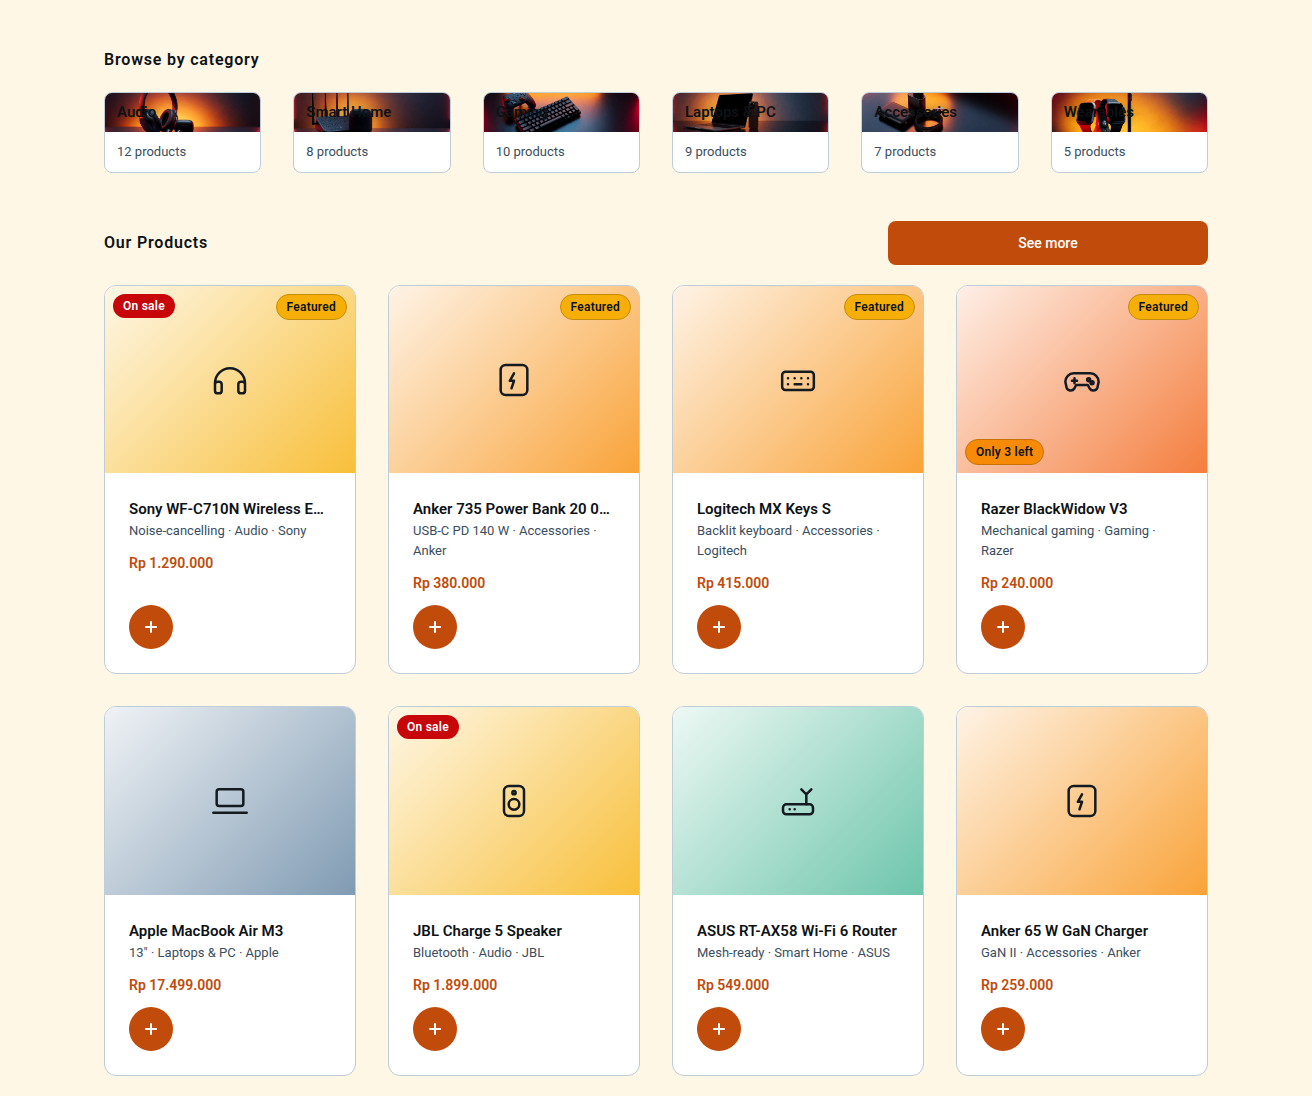
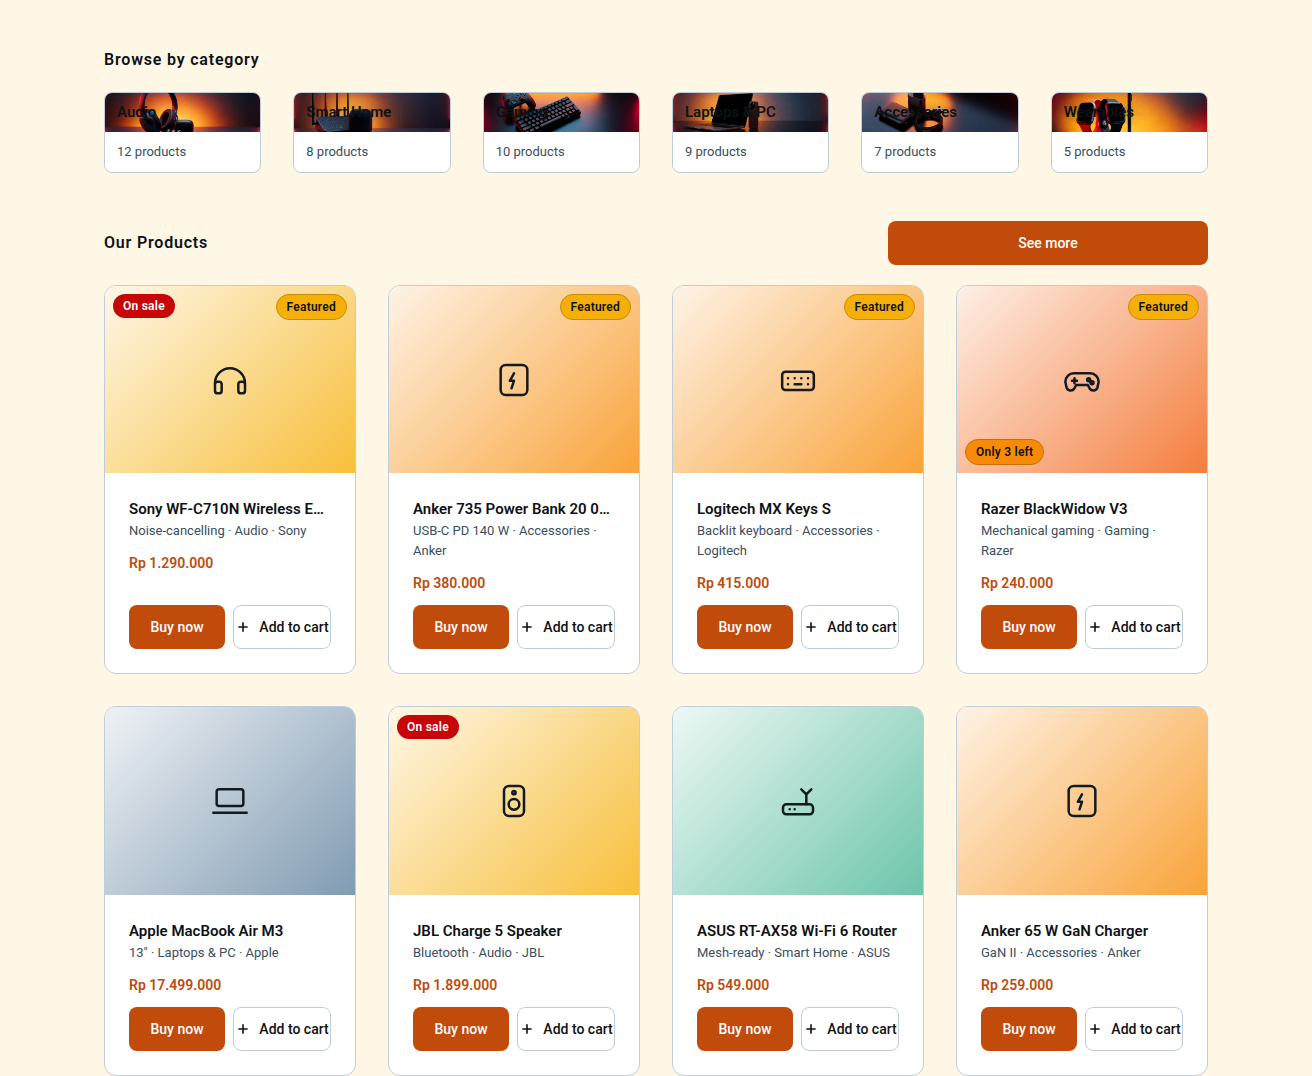
feat(storefront): round-11 — product card CTA row: 'Buy now' + 'Add to cart' side by side
Replace the pinned 44px circular plus-icon add-to-cart (.cadd) with two
44px buttons in .crow (main-store grid4 + search-browse grid-search, one
shared card() helper):
- Buy now: primary filled (at-600, white 14/500, 8px radius)
- Add to cart: secondary outline (white, 1px bs-200 border, bs-950 label,
  plus glyph kept before the label)
- .crow = flex, 8px gap, equal flex split; both fit one line at 1312px
  and at mobile 2-col (no clipping, no label shrink needed at 14px)
- out-of-stock: BOTH aria-disabled (bs-100 fill + bs-400 text),
  'Add to cart (out of stock)' aria-label preserved
- removed dead .cadd styles

Docs: docs/main-store/design.md + docs/search-browse/design.md card CTA
row re-described; intended-redesign (round 11) markers added.
Re-render: docs/main-store/mockup-bottom.png + docs/search-browse/mockup.png
(refreshed by capture_bottom + rebuild_docs_png). Gate CLEAN at 49b7610.

diff --git a/_mockup-build/pages_storefront.py b/_mockup-build/pages_storefront.py
@@ -23,12 +23,21 @@ display:flex;flex-direction:column;min-width:0;min-height:300px}
 white-space:nowrap;overflow:hidden;text-overflow:ellipsis}
 .csub{font-size:13px;line-height:20px;font-weight:400;color:var(--bs-700)}
 .cprice{height:20px}
-.crow{display:flex;align-items:center;justify-content:space-between;margin-top:auto}
-.cadd{width:44px;height:44px;border-radius:999px;border:none;background:var(--at-600);color:#fff;
-display:flex;align-items:center;justify-content:center;cursor:pointer;transition:background-color 150ms ease}
-.cadd:hover{background:var(--at-700)} .cadd:active{background:var(--at-800)}
-.cadd svg{width:20px;height:20px}
-.cadd[aria-disabled=true]{background:var(--bs-100);color:var(--bs-400);cursor:not-allowed}
+/* round-11: .crow = two 44px buttons side by side (equal flex split, 8px gap) —
+   "Buy now" primary filled (btn-p style) + "Add to cart" outline (btn-sec style,
+   plus glyph kept before the label so it stays recognizable). Mobile (<768px):
+   labels shrink to 13px and "Add to cart" folds to a 44px icon-only button. */
+.crow{display:flex;gap:8px;margin-top:auto}
+.crow .cbuy,.crow .ccart{flex:1 1 0;min-width:0;height:44px;border-radius:8px;cursor:pointer;
+display:inline-flex;align-items:center;justify-content:center;gap:8px;padding:0 8px;
+font-family:var(--font-sans);font-size:14px;line-height:20px;font-weight:500;white-space:nowrap}
+.cbuy{border:0;background:var(--at-600);color:#fff;transition:background-color 150ms ease}
+.cbuy:hover{background:var(--at-700)} .cbuy:active{background:var(--at-800)}
+.ccart{background:#fff;border:1px solid var(--bs-200);color:var(--bs-950);transition:background-color 150ms ease}
+.ccart:hover{background:var(--bs-100)}
+.ccart svg{width:16px;height:16px;flex:none}
+.cbuy[aria-disabled=true]{background:var(--bs-100);color:var(--bs-400);cursor:not-allowed}
+.ccart[aria-disabled=true]{background:var(--bs-100);color:var(--bs-400);cursor:not-allowed}
 """
 
 # v4 main-store: hero banner + category rail (docs/main-store/design.md)
@@ -79,9 +88,11 @@ def grad_for(sub):
     return "unmapped"
 
 def card(name, sub, price, icon, h="auto", tag=None, oos=False, only=None, sale=False, featured=False, w="auto"):
-    """§3.4 card: clamped 1-line title, 13px metadata, 14px/600 at-600 price, pinned 44px add-to-cart.
-    §3.3 tile: 4:3 aspect-ratio gradient swatch, blueSlate-900 glyph. Badge pills (§3.1):
-    sale/out-of-stock top-left, featured top-right, low-stock bottom-left."""
+    """§3.4 card: clamped 1-line title, 13px metadata, 14px/600 at-600 price.
+    round-11: .crow row = 'Buy now' (btn-p filled) + 'Add to cart' (btn-sec outline,
+    plus glyph) side by side; OOS → both aria-disabled. §3.3 tile: 4:3 aspect-ratio
+    gradient swatch, blueSlate-900 glyph. Badge pills (§3.1): sale/out-of-stock
+    top-left, featured top-right, low-stock bottom-left."""
     th = "aspect-ratio:4/3" if h == "auto" else f"height:{h}px"
     tiles = (f'<div class="ptile" style="{th};background:{TILE_GRADS[grad_for(sub)]}">{glyph(icon)}</div>')
     btl = f'<span class="tb tb-sale" style="top:8px;left:8px">On sale</span>' if (sale and not oos) else ""
@@ -92,9 +103,14 @@ def card(name, sub, price, icon, h="auto", tag=None, oos=False, only=None, sale=
     elif only:
         bbl = f'<span class="tb tb-low" style="bottom:8px;left:8px">Only {only} left</span>'
     op = "0.4" if oos else "1"
-    add = ('<button class="cadd" aria-disabled="true" aria-label="Add to cart (out of stock)">'
-           f'{ICONS["plus"]}</button>') if oos else \
-          f'<button class="cadd" aria-label="Add {name} to cart">{ICONS["plus"]}</button>'
+    if oos:
+        buy = '<button class="cbuy" aria-disabled="true" aria-label="Buy now (out of stock)">Buy now</button>'
+        cadd = (f'<button class="ccart" aria-disabled="true" aria-label="Add to cart (out of stock)">'
+                f'{ICONS["plus"]}<span class="clbl">Add to cart</span></button>')
+    else:
+        buy = f'<button class="cbuy" aria-label="Buy {name} now">Buy now</button>'
+        cadd = (f'<button class="ccart" aria-label="Add {name} to cart">'
+                f'{ICONS["plus"]}<span class="clbl">Add to cart</span></button>')
     wstyle = "" if w == "auto" else f"max-width:{w}px;"
     return f'''<a class="pcard" style="{wstyle}" href="#product-details" aria-label="{name}">
   <div style="position:relative;opacity:{op}">{tiles}{btl}{btr}{bbl}</div>
@@ -102,7 +118,8 @@ def card(name, sub, price, icon, h="auto", tag=None, oos=False, only=None, sale=
     <div class="ttl"><div class="cname">{name}</div><div class="csub">{sub}</div></div>
     <div class="cprice"><span class="price">Rp {price}</span></div>
     <div class="crow">
-      {add}
+      {buy}
+      {cadd}
     </div>
   </div></a>'''
 

diff --git a/docs/main-store/design.md b/docs/main-store/design.md
@@ -275,9 +275,15 @@ line below (44px min); grid 3-up at 768–1023px, 2-up at 390–767px (24px gutt
 | "Only N left" pill | `carrotOrange-500` fill, `blueSlate-950` label, 1px `carrotOrange-600` border, bottom-left |
 | "Out of stock" pill | `strawberryRed-100` bg, `strawberryRed-700` label; tile at opacity .4 |
 | Product tile | 4:3, 135° category-keyed gradient (Audio `tuscanSun-50→400`, Smart Home `seagrass-50→400`, Gaming `atomicTangerine-50→400`, Laptops & PC `blueSlate-50→400`, Accessories `carrotOrange-50→400`, Wearables `strawberryRed-50→400`); single 40px stroke-1.5 `blueSlate-900` line glyph, decorative (`aria-hidden`) |
-| Add-to-cart | 44×44 circular filled `atomicTangerine-600`, white plus glyph → hover `-700` → active `-800`; disabled = `blueSlate-100` bg + `blueSlate-400` glyph |
+| Card actions (round 11) | two buttons side by side on the card's CTA row (`.crow`, flex, 8px gap, equal split): **Buy now** = primary filled 44px (`atomicTangerine-600`, white 14/500 label, 8px radius) · **Add to cart** = secondary outline 44px (white fill, 1px `blueSlate-200` border, `blueSlate-950` 14/500 label, plus glyph before the label, hover `blueSlate-100`). Both disabled when out of stock (`blueSlate-100` fill + `blueSlate-400` text, `aria-disabled`). |
 | Cart badge | `atomicTangerine-500` bg, white 12/600 number (**TBD: open decision #3**, cart color accents) |
 | "See more" (load more) | filled 44px primary button, 320px wide desktop / full-width mobile (round-10: sits on the "Our Products" heading row, right-aligned via `space-between`; on <768px the row stacks so it becomes full-width); when exhausted → 13/400 `blueSlate-700` centered "All N products shown" line, not a disabled button |
+
+> **intended-redesign (round 11): card CTA row** — the pinned circular 44×44 `atomicTangerine-600`
+> plus-glyph add-to-cart button is replaced by two side-by-side 44px buttons: **Buy now**
+> (primary filled, `atomicTangerine-600`) + **Add to cart** (secondary outline, white fill,
+> 1px `blueSlate-200` border, plus glyph kept). Out-of-stock disables both. The old
+> `Add-to-cart | 44×44 circular filled` row is superseded by the `Card actions (round 11)` row.
 
 ## INTERACTIONS
 
@@ -309,12 +315,13 @@ line below (44px min); grid 3-up at 768–1023px, 2-up at 390–767px (24px gutt
 - **Error (API 5xx):** inline panel `strawberryRed-100` bg, `strawberryRed-700` text, with
   "Try again" filled button (`strawberryRed-600` fill, white label).
 - **Stock state on cards:** `stock === 0` → tile at 40% opacity + "Out of stock" pill
-  (`strawberryRed-100` bg, `strawberryRed-700` text) and add-to-cart disabled
-  (`blueSlate-100` bg, `blueSlate-400` glyph, `aria-disabled`).
+  (`strawberryRed-100` bg, `strawberryRed-700` text) and both card actions disabled
+  (Buy now + Add to cart: `blueSlate-100` bg, `blueSlate-400` text, `aria-disabled`).
   Stock 1–5 → "Only N left" pill, bottom-left (`carrotOrange-500` fill, `blueSlate-950`
   text, 1px `carrotOrange-600` border) — urgency cue, assumes stock is exposed publicly —
   most likely interpretation.
 - **Role-based visibility:** staff/manager/admin hitting this route (if allowed per TBD
-  above) see read-only cards: no Add-to-Cart button, no cart badge in header.
+  above) see read-only cards: no card actions (Buy now / Add to cart), no cart badge in header.
 - **Keyboard/a11y:** cards focusable (focus ring 2px `atomicTangerine-500`, offset 2);
-  add-to-cart is a real `<button aria-label="Add <name> to cart">`; touch targets ≥ 44×44px.
+  card actions are real `<button>`s (`aria-label="Buy <name> now"`, `aria-label="Add <name> to cart"`);
+  touch targets ≥ 44×44px.

diff --git a/docs/search-browse/design.md b/docs/search-browse/design.md
@@ -62,7 +62,7 @@ ASCII wireframe (desktop, ≥768px):
 |  ✓ Audio |  +--------+ +--------+ +--------+                      |
 |  Smart Hm|  | card   | | card   | | card   |   grid-search:      |
 |  Gaming  |  | Sony C7| | Anker  | | Razer  |   3 cols, 24px gutter|
-|  Laptops |  | Rp1.29 | | Rp380k | | Rp240k |   (+cadd 44px each)|
+|  Laptops |  | Rp1.29 | | Rp380k | | Rp240k |   (Buy now + Add to cart 44px each)|
 |  Access. |  +--------+ +--------+ +--------+                      |
 |  Wearable|  +--------+ +--------+ +--------+                      |
 | Brand    |  | card   | | card   | | card   |                      |
@@ -91,6 +91,8 @@ Wireless Earbuds", "Anker 735 Power Bank 20 000 mAh", "Razer BlackWidow V3",
 > **60 : 30 : 10 mapping (round 7 · `design-tokens-round3.md` §11):** 60% dominant ground = `tuscanSun-50` #FEF7E6 (the warm page background, replacing the `#FFFFFF` canvas) · 30% secondary surface = `#FFFFFF` card/panel/form-field fill (now reads as depth on the warm ground; `blueSlate-50` stays the alternate soft surface) · 10% accent = `atomicTangerine-600` (primary CTA / price) · `strawberryRed-600` (sale / error / destructive) · `carrotOrange-500` (low-stock / secondary) · `tuscanSun-500` (featured / star) — used sparingly, ~10% of the surface.
 > **intended-redesign: round-7 60:30:10 storefront color ratio** — the `#FFFFFF` canvas is demoted to the 30% surface layer and the `tuscanSun-50` warm ground becomes the 60% dominant page background (`design-tokens-round3.md` §11). Control-panel / ops pages are **out of scope**: their dark `blueSlate-900` sidebar + content gutter chrome is unchanged.
 
+> **intended-redesign (round 11): card CTA row** — the single pinned circular 44px `atomicTangerine-600` plus-glyph add-to-cart button is replaced by two side-by-side 44px buttons: **Buy now** (primary filled, `atomicTangerine-600`) + **Add to cart** (secondary outline, white fill, 1px `blueSlate-200` border, plus glyph kept). Out-of-stock disables both. Supersedes the prior `filled circular 44px add-to-cart` card spec; see the updated `Price / card actions on result cards` row below.
+
 | Element | Token |
 |---|---|
 | **Canvas / page background (60% ground)** | `tuscanSun-50` #FEF7E6 (warm ground, round 7 §11) — result cards and the filter rail sit on it as `#FFFFFF` / `blueSlate-50` 30% surface; card border `blueSlate-200` |
@@ -101,7 +103,7 @@ Wireless Earbuds", "Anker 735 Power Bank 20 000 mAh", "Razer BlackWidow V3",
 | Active filter chips | pill `blueSlate-100` bg, `blueSlate-900` label; removable × glyph `strawberryRed-600` |
 | "Clear all" link | `atomicTangerine-600` 13px, underline on hover |
 | Sort control | secondary button: white fill, 1px `blueSlate-200` border, `blueSlate-950` label, hover fill `blueSlate-100`, 44px min |
-| Price / add-to-cart on result cards | per Main Store card spec: price `atomicTangerine-600` 14/600, filled circular 44px add-to-cart |
+| Price / card actions on result cards | per Main Store card spec (round 11): price `atomicTangerine-600` 14/600; CTA row = two side-by-side 44px buttons — "Buy now" filled `atomicTangerine-600` + "Add to cart" outline white fill, 1px `blueSlate-200` border, `blueSlate-950` label (plus glyph before the label) |
 | Empty-results panel | `blueSlate-50` bg, heading `blueSlate-950`, helper `blueSlate-700` |
 | Sale badge on result cards | `strawberryRed-600` fill, white label (color-tokens §3; same card spec as Main Store) |
 | API error panel | `strawberryRed-100` bg, `strawberryRed-700` text + "Try again" (`strawberryRed-600` fill, white) |
